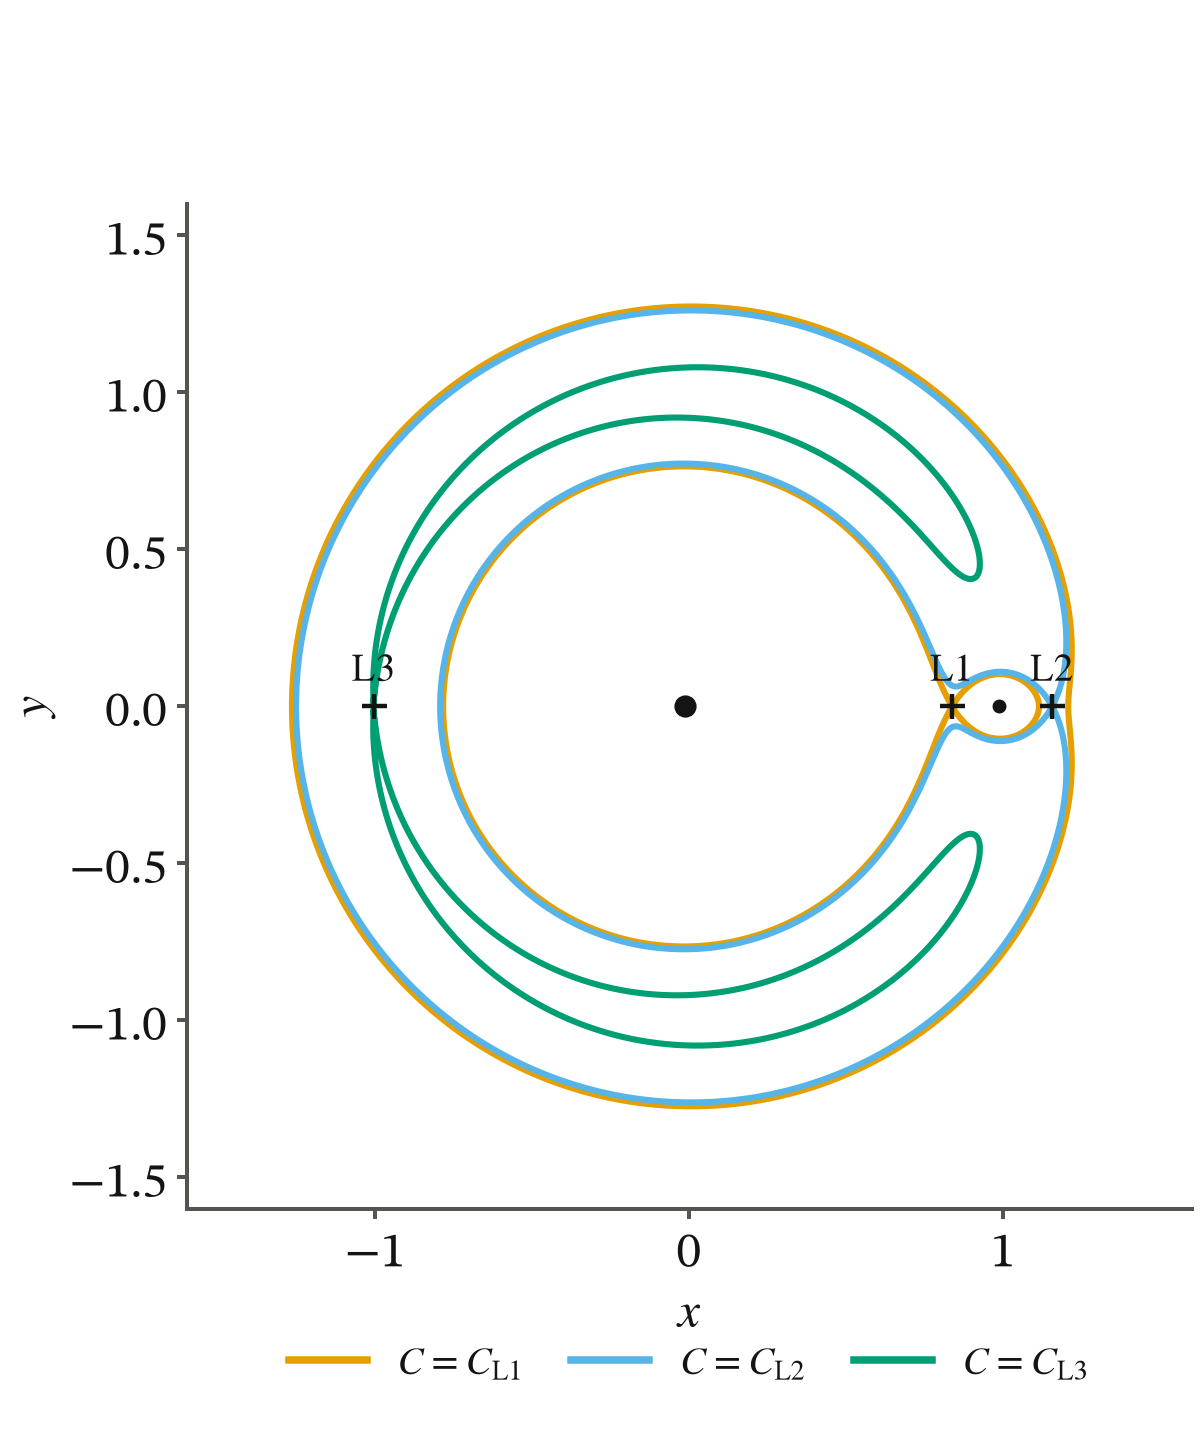
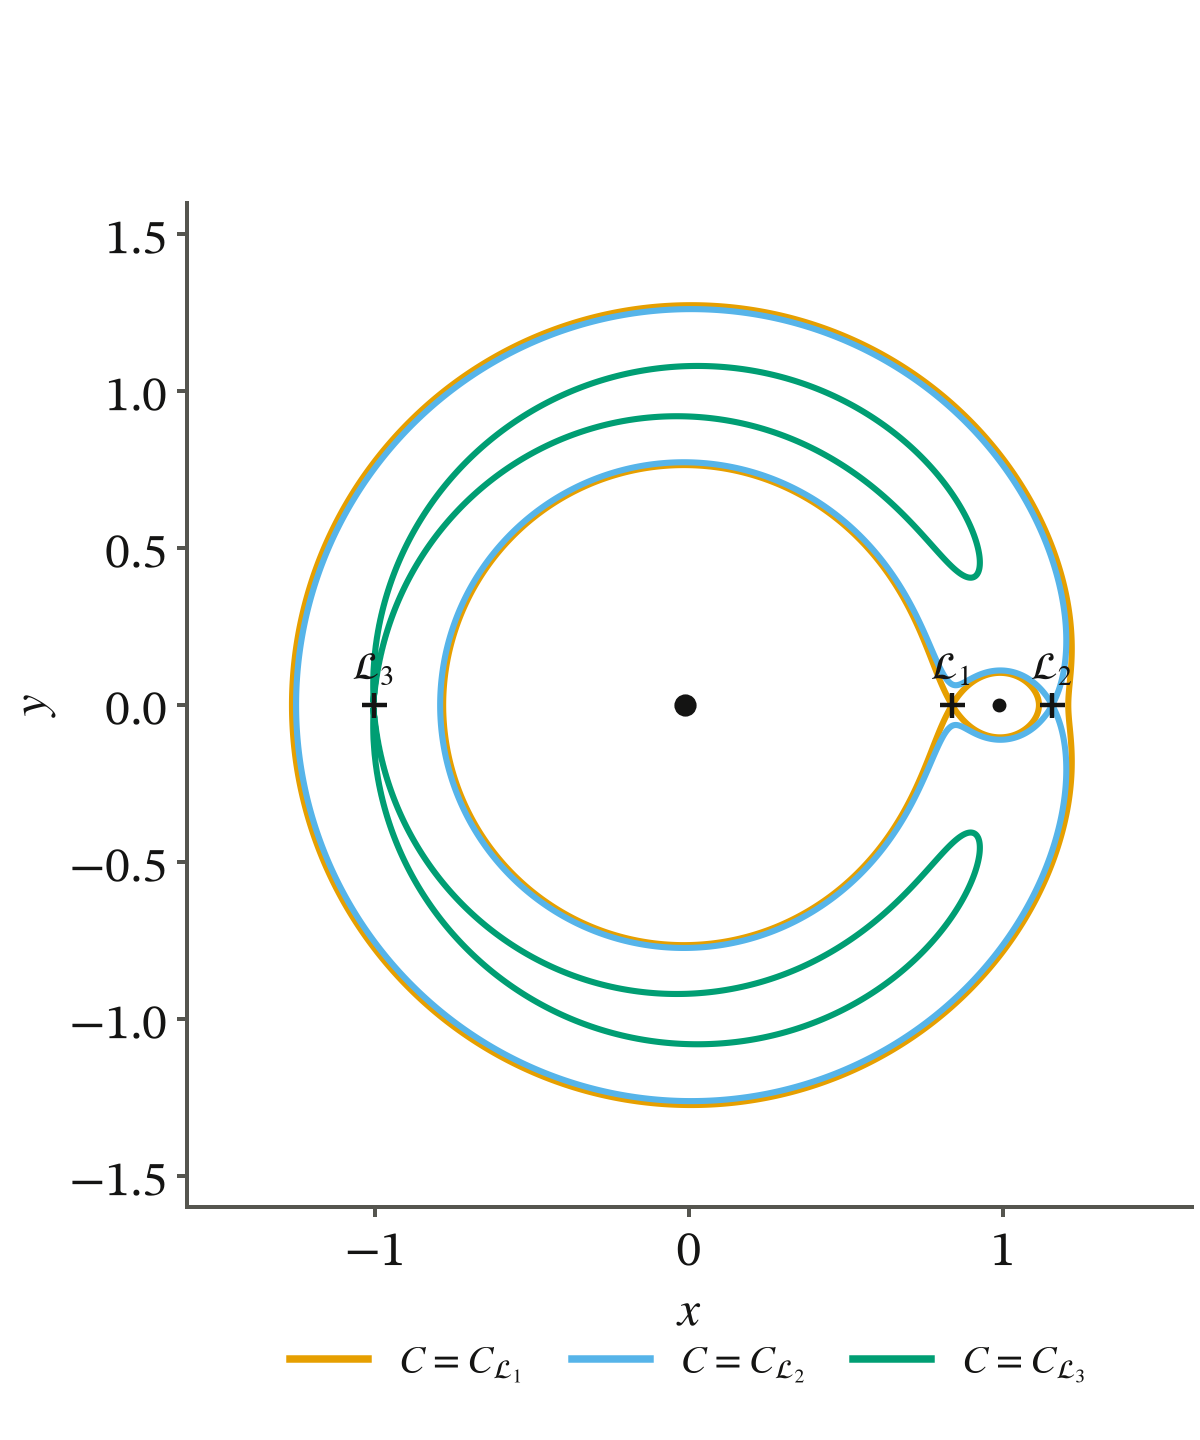
draw the paper figure as the halo family of L2 in three projections, and name the libration points in calligraphic L

diff --git a/demo/figures.py b/demo/figures.py
@@ -1,19 +1,24 @@
 """Draws the demo figures of the slide template.
 
 Two figures show the zero-velocity curves of the Earth–Moon CR3BP in the dark and light slide
-styles. A third figure shows the pseudo-potential along the x axis as a journal figure in black on
-white, for the paper class of the theme. Lengths are in Earth–Moon rotating-frame units. Run it as
+styles. A third figure shows the northern halo family of the libration point L2 in three projections,
+colored by the Jacobi constant, as a journal figure on white for the paper class of the theme. The
+family is continued from the seed of halos() in src/scenes.ts. Lengths are in Earth–Moon
+rotating-frame units. Run it as
 
     uv run --with matplotlib,numpy,scipy python demo/figures.py .
 
 from the root of the repository, and the three files are written into demo/.
 """
+import io
 import sys
 import numpy as np
 import matplotlib
 matplotlib.use("Agg")
 import matplotlib.pyplot as plt
+from scipy.integrate import solve_ivp
 from scipy.optimize import brentq
+from PIL import Image
 
 root = sys.argv[1]
 mu = 0.01215
@@ -49,13 +54,13 @@ def zvc(style, out):
     colors = plt.rcParams["axes.prop_cycle"].by_key()["color"]
     for name, col in zip(["L1", "L2", "L3"], colors[:3]):
         ax.contour(X, Y, Z, levels=[C[name]], colors=[col], linewidths=2.2)
-        ax.plot([], [], color=col, label=f"$C = C_{{\\mathrm{{{name}}}}}$")
+        ax.plot([], [], color=col, label=f"$C = C_{{\\mathcal{{L}}_{name[1]}}}$")
     text = plt.rcParams["text.color"]
     ax.plot([-mu], [0], "o", color=text, ms=7)
     ax.plot([1 - mu], [0], "o", color=text, ms=4)
     for name, v in dict(L1=L1, L2=L2, L3=L3).items():
         ax.plot([v], [0], "+", color=text, ms=9, mew=1.6)
-        ax.annotate(f"$\\mathrm{{{name}}}$", (v, 0), xytext=(0, 9), textcoords="offset points",
+        ax.annotate(f"$\\mathcal{{L}}_{name[1]}$", (v, 0), xytext=(0, 9), textcoords="offset points",
                     ha="center", fontsize=14)
     ax.set_aspect("equal")
     ax.set_xlim(-1.6, 1.6)
@@ -70,25 +75,96 @@ def zvc(style, out):
 for mode in ("dark", "light"):
     zvc(f"{root}/styles/beeson-{mode}.mplstyle", f"{root}/demo/figure-{mode}.png")
 
+
+def rhs(t, s):
+    """The time derivative of the state s of the CR3BP in the rotating frame."""
+    x, y, z, vx, vy, vz = s
+    r1 = np.sqrt((x + mu) ** 2 + y * y + z * z)
+    r2 = np.sqrt((x - 1 + mu) ** 2 + y * y + z * z)
+    k1, k2 = (1 - mu) / r1 ** 3, mu / r2 ** 3
+    return [vx, vy, vz, 2 * vy + x - k1 * (x + mu) - k2 * (x - 1 + mu), -2 * vx + y - (k1 + k2) * y,
+            -(k1 + k2) * z]
+
+
+def crossing(s):
+    """The time and the state of the first upward crossing of the plane y = 0 after the start."""
+    plane = lambda t, q: q[1] if t > 1e-3 else -1.0
+    plane.terminal, plane.direction = True, 1
+    r = solve_ivp(rhs, (0, 8), s, method="DOP853", rtol=1e-12, atol=1e-12, events=plane)
+    return r.t_events[0][0], r.y_events[0][0]
+
+
+def corrected(s, free):
+    """The state s with its components free changed until vx and vz vanish at the crossing."""
+    s = np.array(s, float)
+    for _ in range(30):
+        t, q = crossing(s)
+        miss = q[[3, 5]]
+        if np.max(np.abs(miss)) < 1e-10:
+            return s, t
+        J = np.zeros((2, 2))
+        for k, i in enumerate(free):
+            d = s.copy()
+            d[i] += 1e-7
+            J[:, k] = (crossing(d)[1][[3, 5]] - miss) / 1e-7
+        s[free] -= np.linalg.solve(J, miss)
+    raise RuntimeError("the halo orbit was not corrected")
+
+
+def jacobi(s):
+    """The Jacobi constant of the state s."""
+    x, y, z = s[:3]
+    r1, r2 = np.sqrt((x + mu) ** 2 + y * y + z * z), np.sqrt((x - 1 + mu) ** 2 + y * y + z * z)
+    return x * x + y * y + 2 * (1 - mu) / r1 + 2 * mu / r2 - s[3] ** 2 - s[4] ** 2 - s[5] ** 2
+
+
+# the family is continued in z at its far crossing of the plane y = 0, and then in x toward the
+# Moon, which ends it at a near-rectilinear halo orbit with a perilune of about 2300 km
+halos = []
+s = np.array([1.18, 0, 0.0139, 0, -0.1568, 0])
+for z in np.linspace(0.0139, 0.09, 12):
+    s[2] = z
+    s, half = corrected(s, [0, 4])
+    halos.append((s.copy(), half))
+for x in np.linspace(s[0], 1.015, 17)[1:]:
+    s[0] = x
+    s, half = corrected(s, [2, 4])
+    halos.append((s.copy(), half))
+paths = [solve_ivp(rhs, (0, 2 * half), s, method="DOP853", rtol=1e-11, atol=1e-11,
+                   t_eval=np.linspace(0, 2 * half, 600)).y[:3] for s, half in halos]
+levels = np.array([jacobi(s) for s, _ in halos])
+
 plt.style.use("default")
 plt.rcParams.update({"font.family": "serif", "font.serif": ["STIXGeneral"], "mathtext.fontset": "stix",
-                     "font.size": 12, "savefig.dpi": 200})
-fig, ax = plt.subplots(figsize=(7, 4.2), constrained_layout=True)
-xs = np.linspace(-1.6, 1.6, 4000)
-U = -2 * omega(xs, 0.0)
-# the singularities at the two bodies are cut out of the curve
-U[np.abs(xs + mu) < 0.02] = np.nan
-U[np.abs(xs - 1 + mu) < 0.012] = np.nan
-ax.plot(xs, U, color="k", lw=1.2)
-for name, v in dict(L1=L1, L2=L2, L3=L3).items():
-    ax.plot([v], [-C[name]], "o", color="k", ms=4)
-    ax.annotate(f"$\\mathrm{{{name}}}$", (v, -C[name]), xytext=(0, 7), textcoords="offset points",
-                ha="center")
-ax.set_ylim(-3.6, -2.95)
-ax.set_xlim(-1.6, 1.6)
-ax.set_xlabel("$x$ (rotating frame, Earth–Moon units)")
-ax.set_ylabel("$-2\\,\\Omega(x, 0)$")
-ax.set_title("Pseudo-potential along the $x$ axis, $\\mu = 0.01215$")
-ax.grid(True, lw=0.4, color="0.85")
-fig.savefig(f"{root}/demo/figure-paper.png", facecolor="white")
-print("L1 L2 L3", L1, L2, L3, "C", C)
+                     "font.size": 14, "axes.linewidth": 0.8, "savefig.dpi": 200})
+norm = matplotlib.colors.Normalize(levels.min(), levels.max())
+cmap = plt.get_cmap("viridis")
+# the aspect of the plate of a figure slide, whose figure is 1680 by 630 px
+fig, axes = plt.subplots(1, 3, figsize=(10.5, 3.94), layout="constrained")
+moon, point = np.array([1 - mu, 0, 0]), np.array([L2, 0, 0])
+for ax, (a, b) in zip(axes, [(0, 1), (0, 2), (1, 2)]):
+    for path, level in zip(paths, levels):
+        ax.plot(path[a], path[b], color=cmap(norm(level)), lw=0.8)
+    ax.plot(moon[a], moon[b], "o", color="0.35", ms=5, zorder=5)
+    marks = [moon]
+    if a == 0:
+        ax.plot(point[a], point[b], "+", color="k", ms=9, mew=1.3, zorder=5)
+        ax.annotate(r"$\mathcal{L}_2$", (point[a], point[b]), xytext=(6, 5), textcoords="offset points")
+        marks.append(point)
+    # the axes are fitted to the orbits and the marks, with a margin of 4 percent
+    for axis, i in ((ax.set_xlim, a), (ax.set_ylim, b)):
+        values = np.concatenate([p[i] for p in paths] + [[m[i] for m in marks]])
+        pad = 0.04 * np.ptp(values)
+        axis(values.min() - pad, values.max() + pad)
+    ax.set_aspect("equal")
+    ax.set_xlabel(f"${'xyz'[a]}$")
+    ax.set_ylabel(f"${'xyz'[b]}$", labelpad=2)
+    ax.tick_params(direction="in", length=3, width=0.8, top=True, right=True)
+    ax.locator_params(nbins=4)
+fig.colorbar(plt.cm.ScalarMappable(norm=norm, cmap=cmap), ax=axes, label="Jacobi constant $C$",
+             shrink=0.9, pad=0.02)
+# the figure is written with a palette of 256 colors, at a third of the size of a full-color file
+image = io.BytesIO()
+fig.savefig(image, format="png", facecolor="white")
+Image.open(image).convert("RGB").quantize(256).save(f"{root}/demo/figure-paper.png", optimize=True)
+print("L1 L2 L3", L1, L2, L3, "C", C, "halos", len(halos), "C", levels.min(), levels.max())
